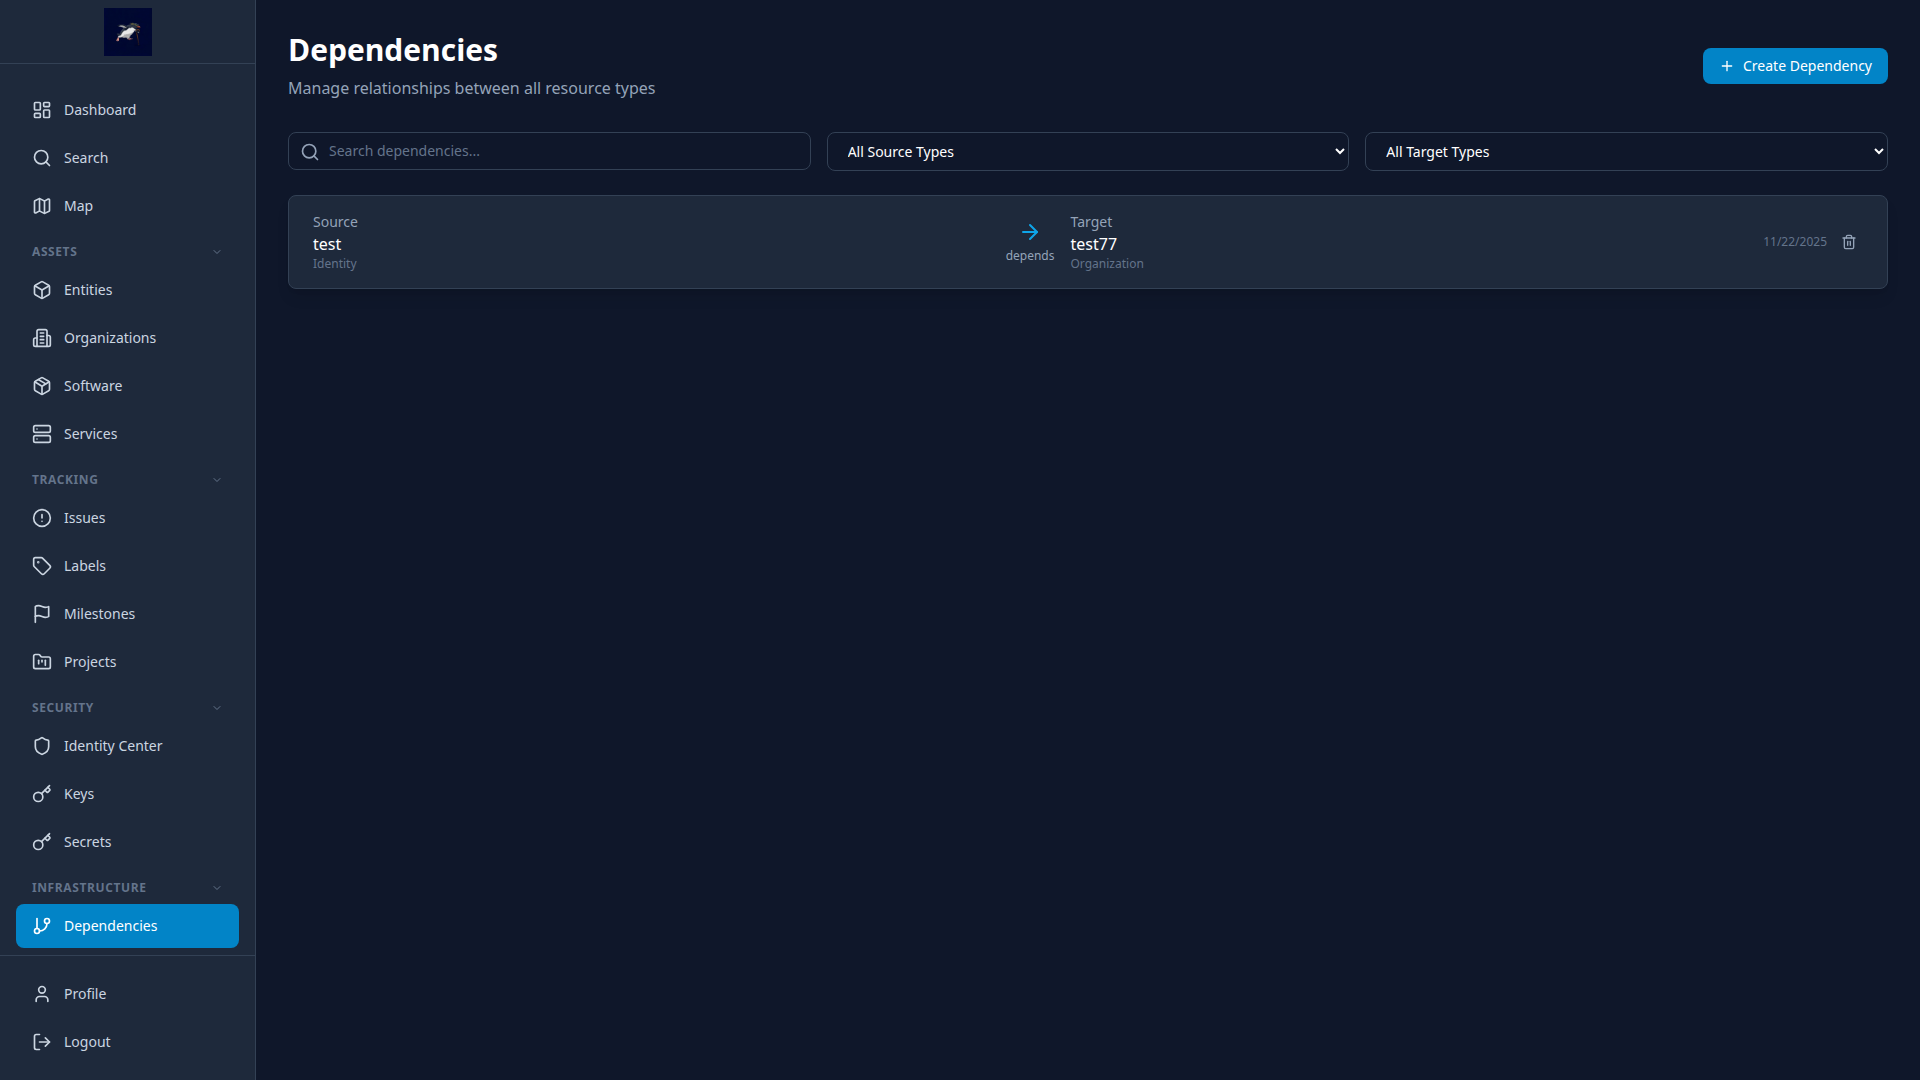
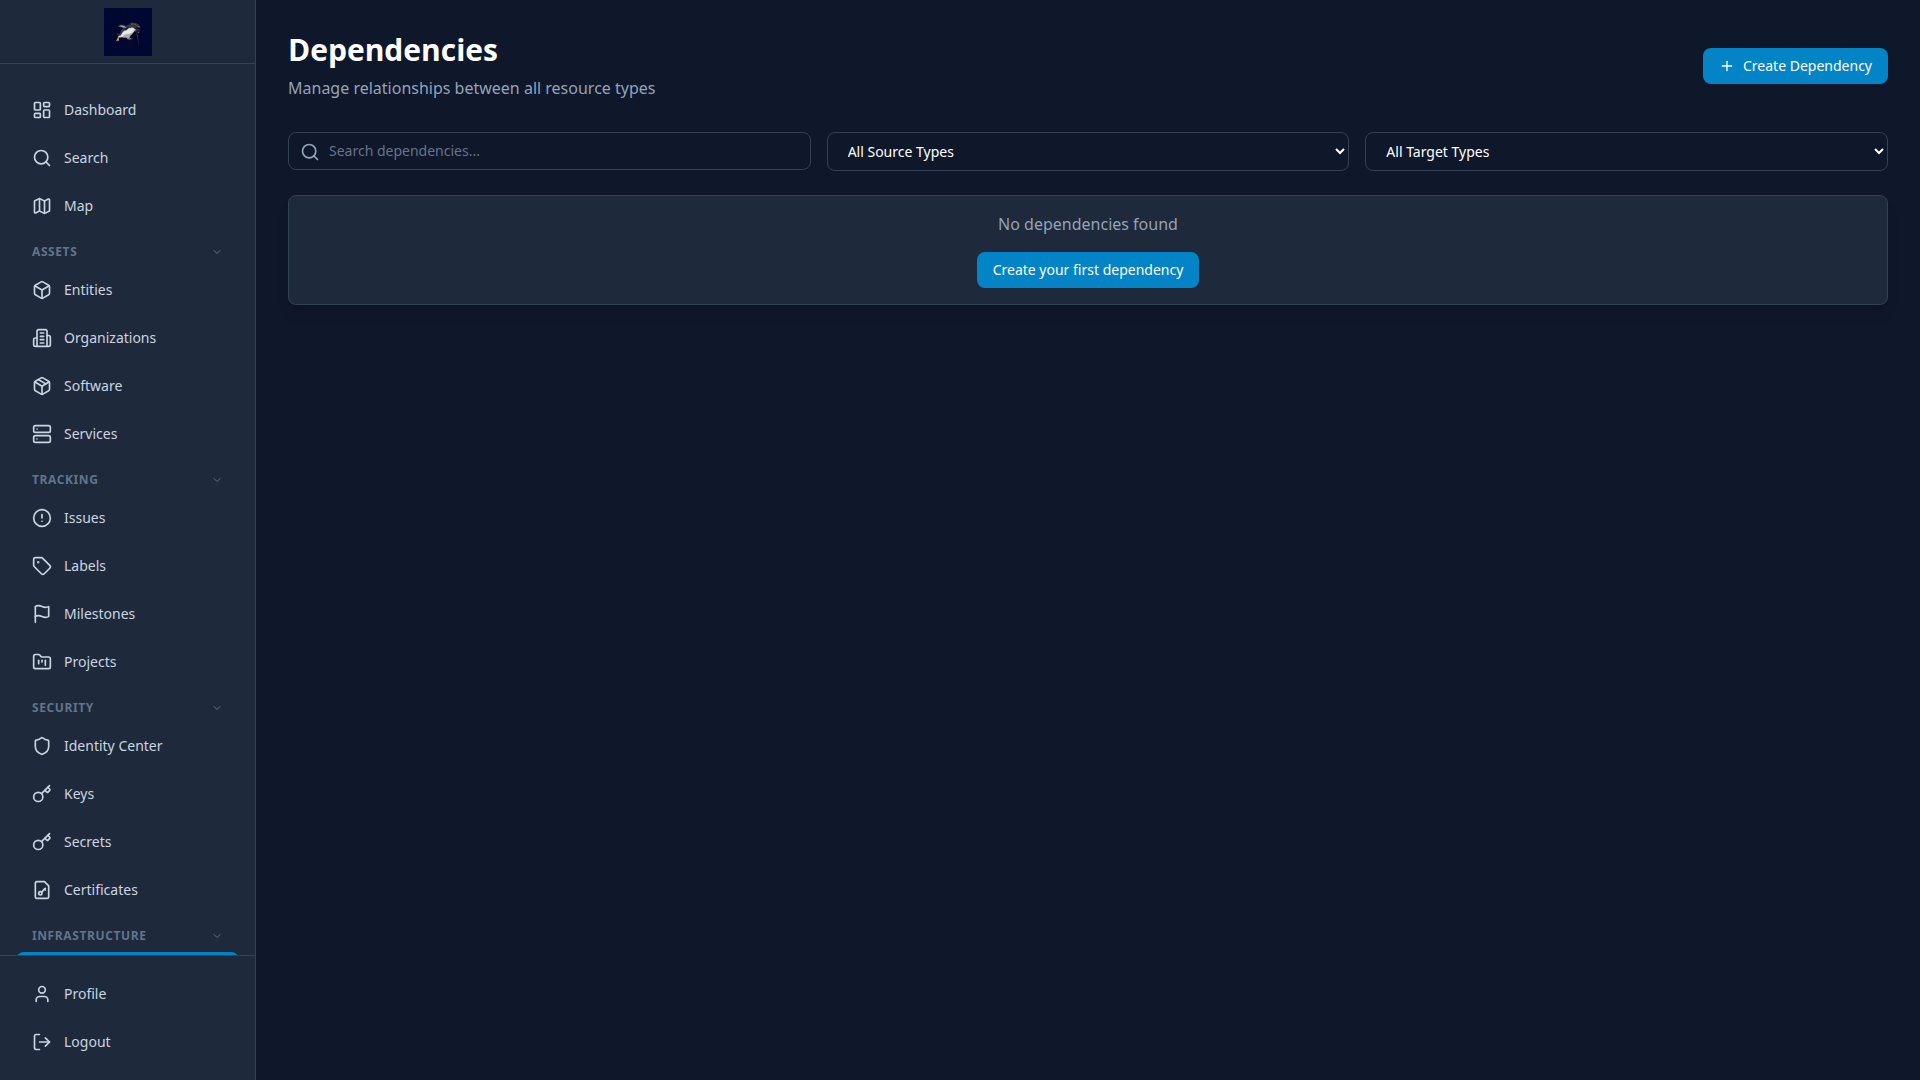
Update screenshots: Add Certificates page and refresh all screenshots
- Added certificates.png screenshot for new Certificates page
- Updated capture-screenshots.cjs to include /certificates route
- Refreshed all page screenshots with latest UI
- Updated README.md Security & Identity section to include Certificates
- Replaced Dependencies screenshot with Certificates in README

All screenshots now reflect the current v2.4.0 UI with:
- Updated navigation with Certificates in Security section
- Fresh Identity Center (identities) screenshot
- Fresh Keys and Secrets management screenshots
- New Certificates management screenshot

🤖 Generated with [Claude Code](https://claude.com/claude-code)

diff --git a/README.md b/README.md
@@ -143,10 +143,10 @@ Elder provides visibility into your infrastructure and organizational relationsh
 <p align="center"><em>API Keys</em></p>
 </td>
 <td width="50%">
-<a href="docs/screenshots/dependencies.png" target="_blank">
-  <img src="docs/screenshots/dependencies.png" alt="Dependencies" style="max-width: 100%;">
+<a href="docs/screenshots/certificates.png" target="_blank">
+  <img src="docs/screenshots/certificates.png" alt="Certificates" style="max-width: 100%;">
 </a>
-<p align="center"><em>Dependencies</em></p>
+<p align="center"><em>Certificates</em></p>
 </td>
 </tr>
 </table>
